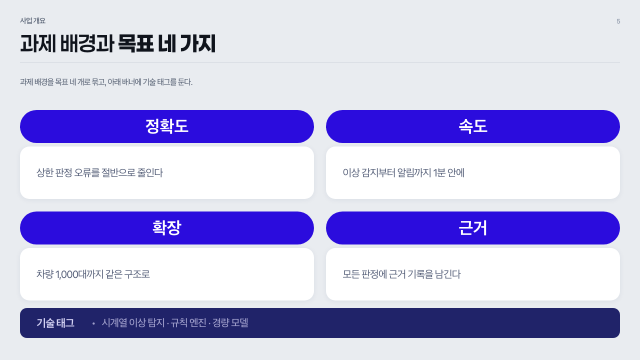
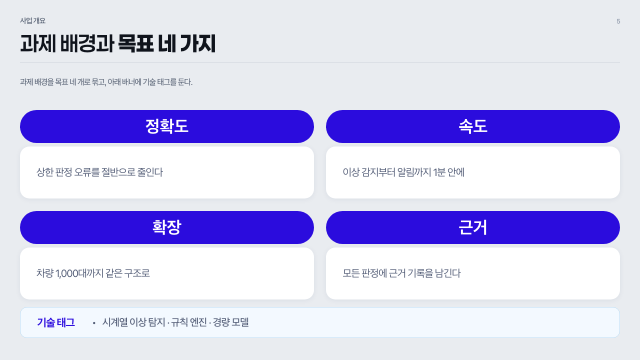
특이사항 배너를 밝게 반전: 연하늘 바탕 + 연하늘 테두리, 라벨은 포인트 컬러

diff --git a/docs/templates/deck.html b/docs/templates/deck.html
@@ -15,7 +15,7 @@ deck-stage:not(:defined){visibility:hidden;}
   --accent:#00A89D;--gold:#C8A24B;--gold-light:#F2D78E;
   --success:#138A4E;--warning:#C97A1F;--danger:#C9302C;
   --bg-soft:#F5F7FA;--border:#D9DEE6;--border-strong:#B9C3D2;
-  --text:#1A2438;--title:#10141C;--body:#515B75;--banner:#202369;--banner-label:#D3D1F3;--banner-text:#A1A0CC;--text-mid:#4A5568;--text-light:#8B95A7;
+  --text:#1A2438;--title:#10141C;--body:#515B75;--banner:#F3F9FF;--banner-border:#BCDDF5;--banner-label:#2B0CDD;--banner-text:#515B75;--text-mid:#4A5568;--text-light:#8B95A7;
   --pad:40px;--hdr:0px;--foot:0px;--safe-bottom:44px;--page:#E9ECF0;--card-shadow:0 2px 12px rgba(20,40,80,0.07);
   --font:'Pretendard','Pretendard','Malgun Gothic','맑은 고딕','Apple SD Gothic Neo','Noto Sans KR',sans-serif;
   --font-title:'Paperlogy 6 SemiBold','Pretendard','Apple SD Gothic Neo','Malgun Gothic','맑은 고딕','Noto Sans KR',sans-serif;
@@ -111,16 +111,16 @@ table.rt{width:100%;border-collapse:collapse;font-size:calc(var(--fs-table) * va
 /* highlight box (used by kv/stat pairs) */
 .hbox{background:var(--primary-softer);border-radius:10px;display:flex;flex-direction:column;align-items:center;justify-content:center;padding:.8em 1em;text-align:center;}
 .hbox .hl{font-size:var(--fs-small);color:var(--text);} .hbox .hv{font-size:calc(var(--fs-stat) * .62);font-weight:800;color:var(--text);letter-spacing:-.03em;line-height:1.1;}
-/* banner (callout): 어두운 둥근 박스 — 왼쪽에 라벨(연한 컬러), 오른쪽에 본문. 모두 박스 안에 들어간다 */
+/* banner (callout): 연하늘 바탕 + 연하늘 테두리 둥근 박스 — 왼쪽에 라벨(포인트 컬러), 오른쪽에 본문. 모두 박스 안에 들어간다 */
 /* 출처·각주: 본문 아래 비워 둔 자리에 깐다. 줄이 늘면 본문이 그만큼 위로 올라간다. */
 .foot{position:absolute;left:var(--pad);right:var(--pad);bottom:13px;z-index:3;
   font-size:14.67px;line-height:20.53px;letter-spacing:-0.2pt;color:var(--text-light);}
 .foot>div{overflow:hidden;text-overflow:ellipsis;white-space:nowrap;}
-.banner{background:var(--banner);color:#fff;padding:.75em 1.6em;border-radius:14px;display:flex;align-items:center;gap:1.6em;flex-shrink:0;font-size:var(--fs-small);}
+.banner{background:var(--banner);border:1.5px solid var(--banner-border);color:var(--text);padding:.75em 1.6em;border-radius:14px;display:flex;align-items:center;gap:1.6em;flex-shrink:0;font-size:var(--fs-small);}
 .banner .lead{color:var(--banner-label);font-size:calc(var(--fs-small) * 1.05);font-weight:700;white-space:nowrap;line-height:1.3;flex:0 0 auto;text-align:center;}
 .banner .msg{font-size:var(--fs-small);font-weight:500;line-height:1.3;flex:1;min-width:0;}
-.banner .msg ul.rl li{color:var(--banner-text);font-size:var(--fs-small);} .banner .msg ul.rl li::before{color:var(--banner-text);} .banner .msg b{color:#fff;font-weight:800;} .banner .msg ul.rl li .v{color:rgba(255,255,255,.75);}
-.banner.light{background:#fff;color:var(--text);box-shadow:var(--card-shadow);} .banner.light .lead{color:var(--primary);} .banner.light .msg ul.rl li{color:var(--body);} .banner.light .msg ul.rl li::before{color:var(--body);} .banner.light .msg b{color:var(--primary);}
+.banner .msg ul.rl li{color:var(--banner-text);font-size:var(--fs-small);} .banner .msg ul.rl li::before{color:var(--banner-text);} .banner .msg b{color:var(--primary);font-weight:800;} .banner .msg ul.rl li .v{color:var(--text-mid);}
+.banner.light{background:#fff;border-color:transparent;color:var(--text);box-shadow:var(--card-shadow);} .banner.light .lead{color:var(--primary);} .banner.light .msg ul.rl li{color:var(--body);} .banner.light .msg ul.rl li::before{color:var(--body);} .banner.light .msg b{color:var(--primary);}
 /* compare: two labeled cards */
 .cmp{display:grid;grid-template-columns:1fr 3em 1fr;align-items:stretch;flex:1;min-height:0;font-size:var(--fs-body);}
 .side{position:relative;background:transparent;border-radius:0;box-shadow:none;display:flex;flex-direction:column;min-height:0;overflow:visible;gap:.3em;}

diff --git a/docs/design/index.html b/docs/design/index.html
@@ -248,7 +248,7 @@ tr.dirty .val input{border-color:var(--acc);color:var(--acc)}
 .rl li::before{content:'•';position:absolute;left:.05em;top:0}
 .rl li .v{display:block;color:#4A5568;font-size:calc(var(--fs-small)*var(--k));margin-top:.1em}
 .d-card.dark .rl li,.d-card.dark .rl li .v{color:#fff}
-.d-banner{background:var(--p-banner);color:#fff;padding:.75em 1.6em;border-radius:var(--r-banner);
+.d-banner{background:var(--p-banner);border:1.5px solid var(--p-bborder);color:#1A2438;padding:.75em 1.6em;border-radius:var(--r-banner);
   display:flex;align-items:center;gap:1.6em;font-size:calc(var(--fs-small)*var(--k))}
 .d-banner .lb{color:var(--p-blabel);font-size:calc(var(--fs-small)*var(--k)*1.05);font-weight:700;
   white-space:nowrap;line-height:1.3;text-align:center}
@@ -549,10 +549,10 @@ function derive(primary,secondary){
   var readable=function(c){for(var t=0;t<=1.001;t+=0.1){var c2=mix(c,primary,t);if(contrast(c2)>=3)return c2}return primary};
   var sec=secondary&&/^#?[0-9a-f]{6}$/i.test(secondary)?secondary.toUpperCase():'';
   var primary2=(sec&&luminance(sec)>luminance(primary))?readable(sec):mix(primary,'#4E8DF5',0.55);
-  var banner=mix(primary,'#1E2850',0.82), bannerLabel=mix(primary2,'#FFFFFF',0.62);
+  var banner='#F3F9FF', bannerLabel=primary;   // 배너는 연하늘 바탕 + 연하늘 테두리(장표와 같은 값)
   return {primary:primary,primary2:primary2,primaryDeep:mix(primary,'#000000',0.28),
     softBlue:mix(primary2,'#FFFFFF',0.86),softerBlue:mix(primary2,'#FFFFFF',0.94),
-    banner:banner,bannerLabel:bannerLabel,bannerText:mix(bannerLabel,banner,0.28),
+    banner:banner,bannerBorder:'#BCDDF5',bannerLabel:bannerLabel,bannerText:'#515B75',
     coverBadge:mix(mix(primary,'#000000',0.28),'#FFFFFF',0.17),dark:dark,
     usedSecondary:!!(sec&&luminance(sec)>luminance(primary))};
 }
@@ -595,7 +595,7 @@ function apply(){
   set('--deck-med',"'Paperlogy 5 Medium','Paperlogy','Pretendard','Noto Sans KR',sans-serif");
   set('--p',P.primary); set('--p2',P.primary2); set('--p-deep',P.primaryDeep);
   set('--p-soft',P.softBlue); set('--p-softer',P.softerBlue);
-  set('--p-banner',P.banner); set('--p-blabel',P.bannerLabel); set('--p-btext',P.bannerText);
+  set('--p-banner',P.banner); set('--p-bborder',P.bannerBorder); set('--p-blabel',P.bannerLabel); set('--p-btext',P.bannerText);
   set('--p-badge',P.coverBadge);
   set('--h0',(S.h0*PT).toFixed(2)+'px'); set('--h0l',(S.h0l*PT).toFixed(2)+'px'); set('--h0s',(S.h0s*PT).toFixed(3)+'px');
   set('--h1',(S.h1*PT).toFixed(2)+'px'); set('--h1l',(S.h1l*PT).toFixed(2)+'px'); set('--h1s',(S.h1s*PT).toFixed(3)+'px');
@@ -874,6 +874,7 @@ function paintSwatches(){
    ['primary-softer',P.softerBlue,'강조 열 셀 · TO-BE 카드'],
    ['primary-soft',P.softBlue,'연한 강조 배경'],
    ['banner',P.banner,'배너 바탕'],
+   ['banner-border',P.bannerBorder,'배너 테두리'],
    ['banner-label',P.bannerLabel,'배너 라벨 글자'],
    ['cover-badge',P.coverBadge,'표지 오른쪽 아래 상자']
   ].forEach(function(r){h.appendChild(swatch(r[0],r[1],r[2]))});

diff --git a/skills/ppt-maker/app/design-system.html b/skills/ppt-maker/app/design-system.html
@@ -248,7 +248,7 @@ tr.dirty .val input{border-color:var(--acc);color:var(--acc)}
 .rl li::before{content:'•';position:absolute;left:.05em;top:0}
 .rl li .v{display:block;color:#4A5568;font-size:calc(var(--fs-small)*var(--k));margin-top:.1em}
 .d-card.dark .rl li,.d-card.dark .rl li .v{color:#fff}
-.d-banner{background:var(--p-banner);color:#fff;padding:.75em 1.6em;border-radius:var(--r-banner);
+.d-banner{background:var(--p-banner);border:1.5px solid var(--p-bborder);color:#1A2438;padding:.75em 1.6em;border-radius:var(--r-banner);
   display:flex;align-items:center;gap:1.6em;font-size:calc(var(--fs-small)*var(--k))}
 .d-banner .lb{color:var(--p-blabel);font-size:calc(var(--fs-small)*var(--k)*1.05);font-weight:700;
   white-space:nowrap;line-height:1.3;text-align:center}
@@ -549,10 +549,10 @@ function derive(primary,secondary){
   var readable=function(c){for(var t=0;t<=1.001;t+=0.1){var c2=mix(c,primary,t);if(contrast(c2)>=3)return c2}return primary};
   var sec=secondary&&/^#?[0-9a-f]{6}$/i.test(secondary)?secondary.toUpperCase():'';
   var primary2=(sec&&luminance(sec)>luminance(primary))?readable(sec):mix(primary,'#4E8DF5',0.55);
-  var banner=mix(primary,'#1E2850',0.82), bannerLabel=mix(primary2,'#FFFFFF',0.62);
+  var banner='#F3F9FF', bannerLabel=primary;   // 배너는 연하늘 바탕 + 연하늘 테두리(장표와 같은 값)
   return {primary:primary,primary2:primary2,primaryDeep:mix(primary,'#000000',0.28),
     softBlue:mix(primary2,'#FFFFFF',0.86),softerBlue:mix(primary2,'#FFFFFF',0.94),
-    banner:banner,bannerLabel:bannerLabel,bannerText:mix(bannerLabel,banner,0.28),
+    banner:banner,bannerBorder:'#BCDDF5',bannerLabel:bannerLabel,bannerText:'#515B75',
     coverBadge:mix(mix(primary,'#000000',0.28),'#FFFFFF',0.17),dark:dark,
     usedSecondary:!!(sec&&luminance(sec)>luminance(primary))};
 }
@@ -595,7 +595,7 @@ function apply(){
   set('--deck-med',"'Paperlogy 5 Medium','Paperlogy','Pretendard','Noto Sans KR',sans-serif");
   set('--p',P.primary); set('--p2',P.primary2); set('--p-deep',P.primaryDeep);
   set('--p-soft',P.softBlue); set('--p-softer',P.softerBlue);
-  set('--p-banner',P.banner); set('--p-blabel',P.bannerLabel); set('--p-btext',P.bannerText);
+  set('--p-banner',P.banner); set('--p-bborder',P.bannerBorder); set('--p-blabel',P.bannerLabel); set('--p-btext',P.bannerText);
   set('--p-badge',P.coverBadge);
   set('--h0',(S.h0*PT).toFixed(2)+'px'); set('--h0l',(S.h0l*PT).toFixed(2)+'px'); set('--h0s',(S.h0s*PT).toFixed(3)+'px');
   set('--h1',(S.h1*PT).toFixed(2)+'px'); set('--h1l',(S.h1l*PT).toFixed(2)+'px'); set('--h1s',(S.h1s*PT).toFixed(3)+'px');
@@ -874,6 +874,7 @@ function paintSwatches(){
    ['primary-softer',P.softerBlue,'강조 열 셀 · TO-BE 카드'],
    ['primary-soft',P.softBlue,'연한 강조 배경'],
    ['banner',P.banner,'배너 바탕'],
+   ['banner-border',P.bannerBorder,'배너 테두리'],
    ['banner-label',P.bannerLabel,'배너 라벨 글자'],
    ['cover-badge',P.coverBadge,'표지 오른쪽 아래 상자']
   ].forEach(function(r){h.appendChild(swatch(r[0],r[1],r[2]))});

diff --git a/skills/ppt-maker/references/design-system.md b/skills/ppt-maker/references/design-system.md
@@ -22,7 +22,7 @@
 - **그래프(chart)**(2026-09-30, [shadcn/ui Charts](https://ui.shadcn.com/charts) 를 따름): 회색 패널 없이 카드 위에 바로. 왼쪽 제목·오른쪽 "단위 : …". 가로 격자선만(연한 테두리색), 축선·눈금선 없음, X 라벨만. 막대는 위 모서리만 둥글게(한 시리즈 5px, 여러 시리즈 3px), 선은 부드러운 곡선 + 선 색으로 채운 점, 값 라벨은 위. 범례는 아래 가운데(작은 둥근 네모). 색은 브랜드 팔레트 순서(primary-2 → primary → teal → gold). PPTX 는 같은 규칙이되 막대 모서리 둥글리기만 없음. 같은 종류 그래프는 형식 통일.
 - **간트(gantt)**(2026-10-01): 왼쪽 항목 이름 열(24%, 중간 굵기), 위 기간 라벨(회색) + 밑줄, 칸마다 세로 격자선(연한 테두리색), 행마다 가로 막대(행 높이의 40%, 포인트 컬러, 모서리 3px). `second` 파랑·`accent` 청록·`muted` 회색. 가로 구분선·행 배경은 없음. 한 장에 행 3~8개, 칸 4~12개.
 - **표**(2026-10-04, Figma SAFE AI 디자인 시스템 Data Table 을 따름): 시작·끝은 **2px 검정 선**(`--title`), 안쪽 행 구분은 1px 연회색 선(`--border`), 세로선 없음. **타이틀 영역(머리글 행)** 은 연회색 바탕(`--bg-soft`)·**굵게(bold)·회색 글자(`--text-mid`)**. **본문 칸은 보통 굵기(regular)·검정(`--text`)**. **세로 타이틀이 있는 표(`rowHeader: true`)** 는 첫 열도 타이틀 영역 — 연회색 바탕·굵게·회색 글자, 오른쪽 1px 선. 첫 칸이 합계·총계·평균인 행만 연회색 바탕·굵게. 숫자 칸이 절반 넘는 열은 오른쪽 정렬(tabular-nums). 강조 열만 머리글 포인트 컬러 글자(밑줄은 다른 열과 같은 1px 선), 칸은 글자색만 포인트 컬러(바탕 칠하지 않음, 굵기 그대로). **카드 안 작은 표(라벨·값 두 칸, `rows`)** 는 표가 아니라 값 목록처럼: 위·아래 검정 선 없음, 라벨 회색(`--text-mid`), 값 오른쪽 정렬·굵게, 행 사이 1px 선. **크기는 내용에 맞춘다**: `widths` 가 없으면 열 너비를 칸 글자 양에 맞춰 나누고(긴 글 열은 넓게, 숫자 열은 좁게, 열마다 최소 8%), 머리글도 칸이 좁으면 줄바꿈한다. 세로는 본문 배율(`--k`)을 0.75까지 줄이고, 그래도 넘치면 표 글자만 0.75배(`--kt`, 약 10pt)까지 더 줄인다. 그래도 한 장에 안 들어가는 표는 빌드할 때 행을 고르게 나눠 여러 장으로 편다(머리글 반복, 제목 뒤 "(계속)", 표 위 블록은 첫 장·아래 블록은 마지막 장).
-- **배너(callout)**: 네이비 톤 둥근 박스(`--banner`, 포인트 컬러를 #1E2850 쪽으로 82% 섞음 ≈ #202859). **라벨("특이사항"/"참고"/"핵심 요약")은 박스 안 왼쪽**에 연한 컬러(`--banner-label`) 15pt 굵게, 본문 불릿은 오른쪽에 한 단계 죽인 톤(`--banner-text`) 14pt. 밖으로 걸치는 흰 칩은 쓰지 않는다. 배너는 **낮게** 쓴다: 안쪽 여백 `.75em 1.6em`(small 기준), 라벨–본문 간격 1.6em, 줄 사이 ≤0.35em.
+- **배너(callout)**(2026-10-08 밝게 반전): 아주 연한 하늘색 둥근 박스(`--banner` #F3F9FF) + 연하늘 테두리 1.5px(`--banner-border` #BCDDF5)로 연회색 장표 바탕과 구분한다. **라벨("특이사항"/"참고"/"핵심 요약")은 박스 안 왼쪽**에 포인트 컬러(`--banner-label`) 15pt 굵게, 본문 불릿은 오른쪽에 회색(`--banner-text` #515B75) 14pt, 본문 안 굵은 글씨는 포인트 컬러. 밖으로 걸치는 흰 칩은 쓰지 않는다. 배너는 **낮게** 쓴다: 안쪽 여백 `.75em 1.6em`(small 기준), 라벨–본문 간격 1.6em, 줄 사이 ≤0.35em.
 - **비교(compare)**: 라벨 칩(AS-IS 회색 / TO-BE 네이비)이 달린 두 카드, 오른쪽 연파랑, 가운데 › 화살표. **로드맵**: 선 + 네이비 번호 원 + 흰 단계 카드(마지막 `darkLast` 반전). **이미지**: 흰 카드 안, 없는 이미지는 점선 자리표시자. **이미지 상자는 기본 16:9**(`ratio` 로 `4:3`·`1:1`·`9:16`·`3:4`·`original`). 칸의 너비·높이 중 작은 쪽에 맞춰 비율을 지키고 원본은 가장자리를 잘라 채운다(cover). `original` 만 원본 비율 그대로(contain).
 - **표지/마무리**: `meta.coverBg` 로 고른 배경 3종 중 하나(soft·grid·band). 표지는 설명줄 → 제목 → 왼쪽 아래 로고 → 오른쪽 아래 상자 네 덩어리만 쓴다. 자세한 좌표는 아래 '표지·목차 글자 규격'.
 - **목차**: 연회색 배경(`--page`). 왼쪽 위에 `목차`(h1), 오른쪽에 **번호(1·2·3) + 섹션명(h2)** 을 2열로 적는다 — 쪽수·설명·로고는 넣지 않는다. 부록이 있으면 마지막 항목을 `+ 부록` 으로(글씨는 Paperlogy 4 Regular). 맨 아래 문서 제목 + 페이지 번호.
